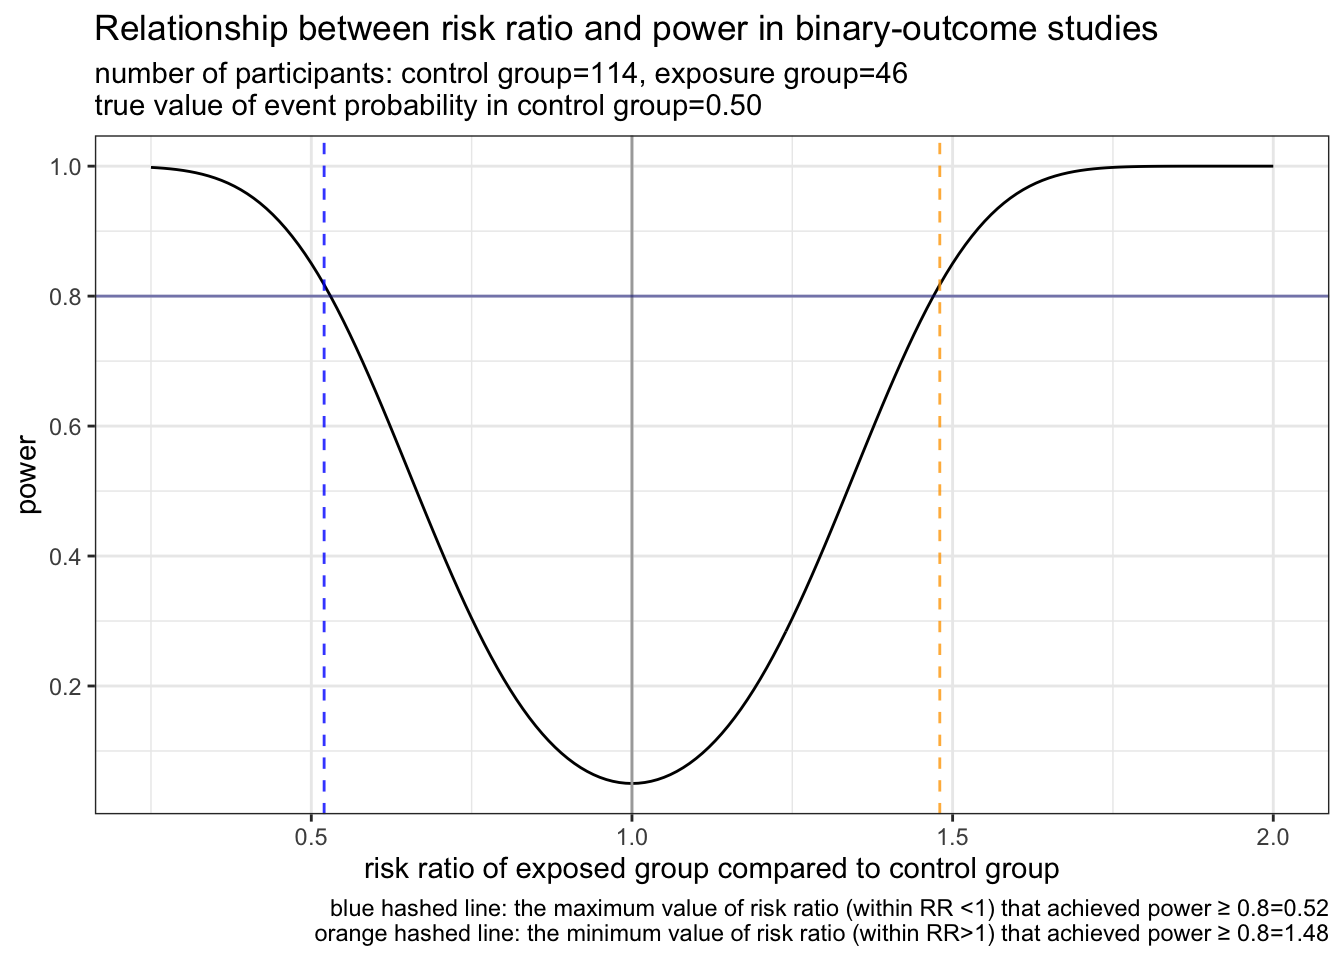
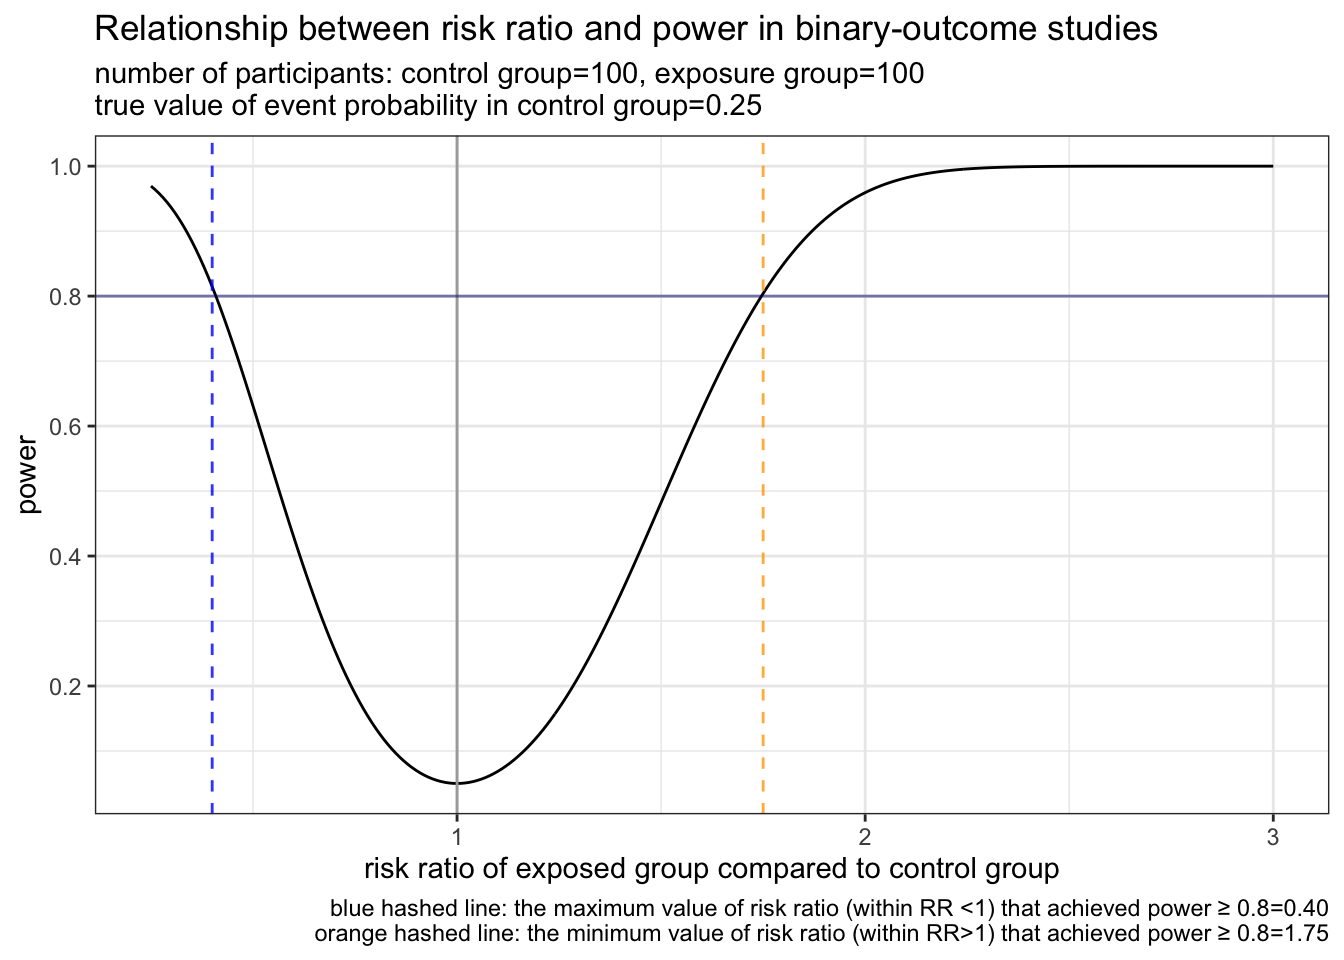
added explanation on power function

diff --git a/docs/post/2022-08-05-powerfunction/index.html b/docs/post/2022-08-05-powerfunction/index.html
@@ -220,7 +220,14 @@
 
 <div id="powerの分布を考えてみよう" class="section level1">
 <h1>powerの分布を考えてみよう</h1>
-<p>真の値がわかっている場合の、powerの分布</p>
+<p>モチベ: 様々な真の値に対するpowerの分布を計算したい。<br>
+“真のリスク比” なんて神のみぞ知る値。powerの計算ってどれくらいrobustnessがあるのかな？という関心です。</p>
+<ul>
+<li>曝露変数: 0/1の2値、結果変数: 0/1の2値、のシチュエーション</li>
+<li>真のリスク比を与えられるとpowerを返す関数を作り、リスク比に対するpowerの関係を可視化したい</li>
+</ul>
+<p>真の値と言っているのに、変動するのはおかしいんじゃ？という指摘はごもっともです。今回は単なる思考実験と思ってください。</p>
+<p><br></p>
 <p>NOTE: これはあくまで真の値を知っているときの話であって、標本値の話ではない</p>
 <pre class="r"><code>pacman::p_load(pwr, tidyverse)
 
@@ -291,8 +298,36 @@ PlotPower_byRR &lt;- function(n_control, n_exposed, p_event_control, rr_min = 0.
 <li>p_event_control: コントロール群でのイベント発生割合</li>
 </ul>
 <p>これらを入力すると、曝露のリスク比(横軸)に対するpower(縦軸)を返します。</p>
-<pre class="r"><code>PlotPower_byRR(n_control = 114, n_exposed = 46, p_event_control = 0.5)</code></pre>
+<div id="example1" class="section level2">
+<h2>example1</h2>
+<p>以降のセクションでは、リスク比 (RR) が1以上と考えます。(RR&lt;1でも同じ議論です)</p>
+<p><br></p>
+<p>コントロール群100人、曝露群100人で、曝露群でのイベント発生割合が25%とします。</p>
+<p>真のRRが1.75ならpowerは0.80となり、「十分」と考えられます。
+ただし、リスク比が1.5ならpower=0.50程度となります。かなりばらつくんですね。</p>
+<pre class="r"><code>PlotPower_byRR(n_control = 100, 
+               n_exposed = 100, 
+               p_event_control = 0.25)</code></pre>
 <p><img src="https://toro-maguro.github.io/post/2022-08-05-powerfunction/index_files/figure-html/unnamed-chunk-2-1.png" width="672" /></p>
+</div>
+<div id="example2" class="section level2">
+<h2>example2</h2>
+<p>人数を増やしてみましょう。今度はコントロール群200人、曝露グループ200人にします。</p>
+<p>この場合、RR=1.75のときpowerはほぼ1 (100%) となります。人数が増えたので、当然です。
+power=0.8を達成するリスク比は1.52となりました。</p>
+<pre class="r"><code>PlotPower_byRR(n_control = 200, 
+               n_exposed = 200, 
+               p_event_control = 0.25)</code></pre>
+<p><img src="https://toro-maguro.github.io/post/2022-08-05-powerfunction/index_files/figure-html/unnamed-chunk-3-1.png" width="672" /></p>
+</div>
+</div>
+<div id="感想" class="section level1">
+<h1>感想</h1>
+<p>先行研究で、RR=1.75 [95%CI: 1.50-2.00] みたいな結果があったとしましょう。
+同じような研究を実施する場合、この値を使ってpower計算することになると思います。</p>
+<p>素直にRR=1.75という点推定値を使えば、example1の通り、各群100人合計200人でokです。
+ただし、「RR=1.75が真の値である」という仮定を置いているだけで、実際には下振れしてしまうかもしれません。期待値的に点推定値を使うのはご尤もなんですが、真の値なんて知り得ない以上、ある程度ばらつきや分布を考えてもいいのかも？と思ってしまいました。例えば ±1σ の幅を持たせてあげるとか。</p>
+<p>こういう話は研究のリソースや研究倫理も絡むのでもっと難しい議論になりそうですね。ひとまず勉強の感想でした。</p>
 </div>
 
 

diff --git a/content/post/2022-08-05-powerfunction/index.html b/content/post/2022-08-05-powerfunction/index.html
@@ -18,7 +18,14 @@ output:
 
 <div id="powerの分布を考えてみよう" class="section level1">
 <h1>powerの分布を考えてみよう</h1>
-<p>真の値がわかっている場合の、powerの分布</p>
+<p>モチベ: 様々な真の値に対するpowerの分布を計算したい。<br>
+“真のリスク比” なんて神のみぞ知る値。powerの計算ってどれくらいrobustnessがあるのかな？という関心です。</p>
+<ul>
+<li>曝露変数: 0/1の2値、結果変数: 0/1の2値、のシチュエーション</li>
+<li>真のリスク比を与えられるとpowerを返す関数を作り、リスク比に対するpowerの関係を可視化したい</li>
+</ul>
+<p>真の値と言っているのに、変動するのはおかしいんじゃ？という指摘はごもっともです。今回は単なる思考実験と思ってください。</p>
+<p><br></p>
 <p>NOTE: これはあくまで真の値を知っているときの話であって、標本値の話ではない</p>
 <pre class="r"><code>pacman::p_load(pwr, tidyverse)
 
@@ -89,6 +96,34 @@ PlotPower_byRR &lt;- function(n_control, n_exposed, p_event_control, rr_min = 0.
 <li>p_event_control: コントロール群でのイベント発生割合</li>
 </ul>
 <p>これらを入力すると、曝露のリスク比(横軸)に対するpower(縦軸)を返します。</p>
-<pre class="r"><code>PlotPower_byRR(n_control = 114, n_exposed = 46, p_event_control = 0.5)</code></pre>
+<div id="example1" class="section level2">
+<h2>example1</h2>
+<p>以降のセクションでは、リスク比 (RR) が1以上と考えます。(RR&lt;1でも同じ議論です)</p>
+<p><br></p>
+<p>コントロール群100人、曝露群100人で、曝露群でのイベント発生割合が25%とします。</p>
+<p>真のRRが1.75ならpowerは0.80となり、「十分」と考えられます。
+ただし、リスク比が1.5ならpower=0.50程度となります。かなりばらつくんですね。</p>
+<pre class="r"><code>PlotPower_byRR(n_control = 100, 
+               n_exposed = 100, 
+               p_event_control = 0.25)</code></pre>
 <p><img src="{{< blogdown/postref >}}index_files/figure-html/unnamed-chunk-2-1.png" width="672" /></p>
+</div>
+<div id="example2" class="section level2">
+<h2>example2</h2>
+<p>人数を増やしてみましょう。今度はコントロール群200人、曝露グループ200人にします。</p>
+<p>この場合、RR=1.75のときpowerはほぼ1 (100%) となります。人数が増えたので、当然です。
+power=0.8を達成するリスク比は1.52となりました。</p>
+<pre class="r"><code>PlotPower_byRR(n_control = 200, 
+               n_exposed = 200, 
+               p_event_control = 0.25)</code></pre>
+<p><img src="{{< blogdown/postref >}}index_files/figure-html/unnamed-chunk-3-1.png" width="672" /></p>
+</div>
+</div>
+<div id="感想" class="section level1">
+<h1>感想</h1>
+<p>先行研究で、RR=1.75 [95%CI: 1.50-2.00] みたいな結果があったとしましょう。
+同じような研究を実施する場合、この値を使ってpower計算することになると思います。</p>
+<p>素直にRR=1.75という点推定値を使えば、example1の通り、各群100人合計200人でokです。
+ただし、「RR=1.75が真の値である」という仮定を置いているだけで、実際には下振れしてしまうかもしれません。期待値的に点推定値を使うのはご尤もなんですが、真の値なんて知り得ない以上、ある程度ばらつきや分布を考えてもいいのかも？と思ってしまいました。例えば ±1σ の幅を持たせてあげるとか。</p>
+<p>こういう話は研究のリソースや研究倫理も絡むのでもっと難しい議論になりそうですね。ひとまず勉強の感想でした。</p>
 </div>

diff --git a/docs/categories/epidemiology/index.html b/docs/categories/epidemiology/index.html
@@ -193,7 +193,7 @@
 	
         <div class="post-content-preview">
 	
-            powerの分布を考えてみよう 真の値がわかっている場合の、powerの分布 NOTE: これはあくまで真の値を知っているときの話であって、標本値の話では
+            powerの分布を考えてみよう モチベ: 様々な真の値に対するpowerの分布を計算したい。 “真のリスク比” なんて神のみぞ知る値。powerの計
        
         </div>
     </a>

diff --git a/docs/index.html b/docs/index.html
@@ -194,7 +194,7 @@
 	
         <div class="post-content-preview">
 	
-            powerの分布を考えてみよう 真の値がわかっている場合の、powerの分布 NOTE: これはあくまで真の値を知っているときの話であって、標本値の話では
+            powerの分布を考えてみよう モチベ: 様々な真の値に対するpowerの分布を計算したい。 “真のリスク比” なんて神のみぞ知る値。powerの計
        
         </div>
     </a>

diff --git a/docs/tags/epidemiology/index.html b/docs/tags/epidemiology/index.html
@@ -193,7 +193,7 @@
 	
         <div class="post-content-preview">
 	
-            powerの分布を考えてみよう 真の値がわかっている場合の、powerの分布 NOTE: これはあくまで真の値を知っているときの話であって、標本値の話では
+            powerの分布を考えてみよう モチベ: 様々な真の値に対するpowerの分布を計算したい。 “真のリスク比” なんて神のみぞ知る値。powerの計
        
         </div>
     </a>

diff --git a/docs/tags/power/index.html b/docs/tags/power/index.html
@@ -193,7 +193,7 @@
 	
         <div class="post-content-preview">
 	
-            powerの分布を考えてみよう 真の値がわかっている場合の、powerの分布 NOTE: これはあくまで真の値を知っているときの話であって、標本値の話では
+            powerの分布を考えてみよう モチベ: 様々な真の値に対するpowerの分布を計算したい。 “真のリスク比” なんて神のみぞ知る値。powerの計
        
         </div>
     </a>
